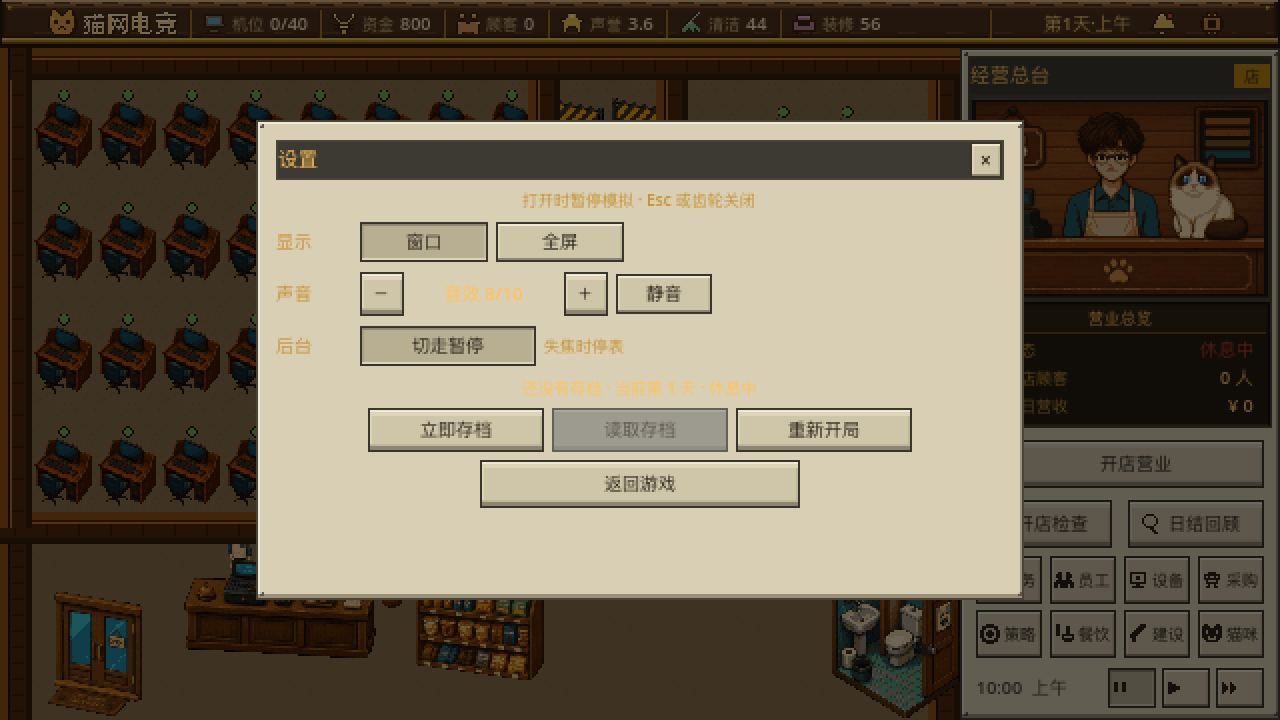
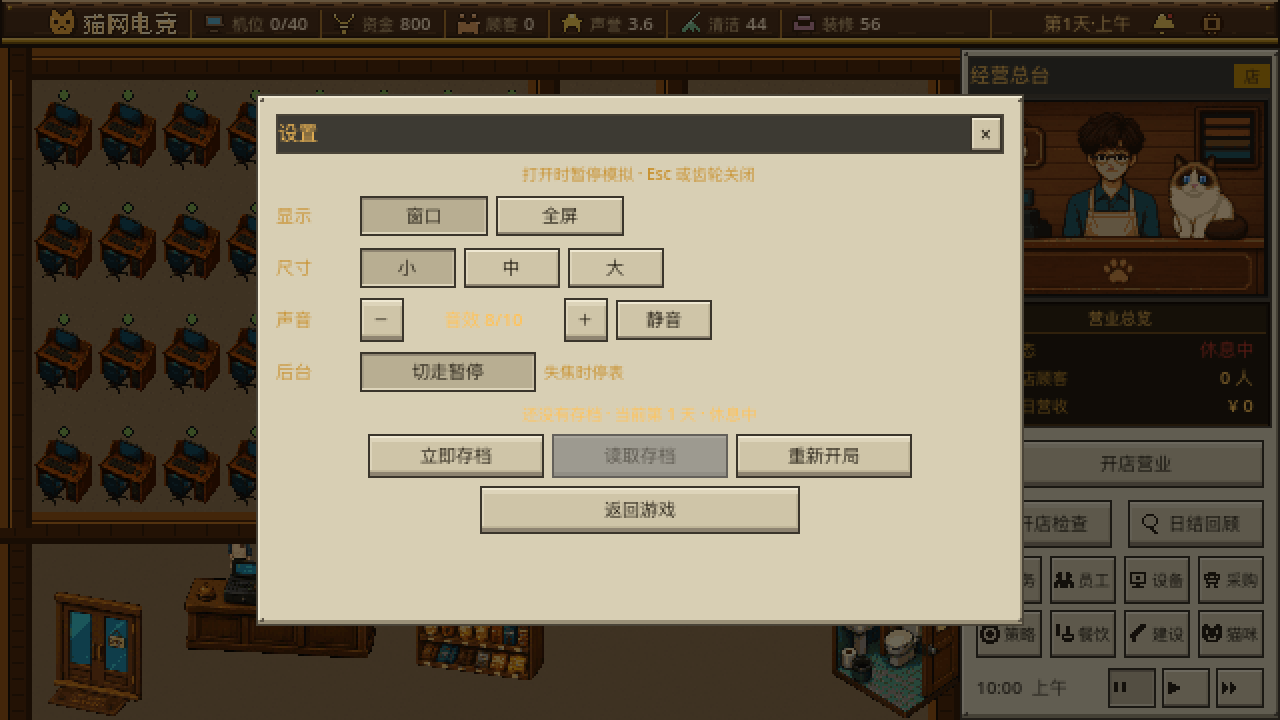
设置增加窗口小/中/大三档，只改 2×/3×/4× 整数倍，逻辑画布和立绘不动。
4K 缩放下默认 1280×720 偏小；全屏仍吃屏幕倍数，档位超出桌面会下压。

Changed region(s): [[0.1875, 0.1222, 0.8125, 0.7639], [0.1875, 0.825, 0.8125, 0.8861]]

diff --git a/docs/ui/操作区功能规划.md b/docs/ui/操作区功能规划.md
@@ -95,7 +95,7 @@
 
 - **顶栏消息铃**：通知与待办列表，只负责提醒和跳转。
 - **随机事件**：由消息铃弹出决策，结果归入财务或经营档案，不占常驻模块。
-- **顶栏齿轮**：唯一设置入口。打开居中设置层（不挡顶栏），营业时间自动暂停；再点齿轮、Esc、遮罩或「返回游戏」关闭并恢复原速度。可切换窗口/全屏、音效音量与静音、切走暂停；立即存档、读取存档、重新开局（后两项需确认）。偏好写入 `user://settings.json`。
+- **顶栏齿轮**：唯一设置入口。打开居中设置层（不挡顶栏），营业时间自动暂停；再点齿轮、Esc、遮罩或「返回游戏」关闭并恢复原速度。可切换窗口/全屏、窗口尺寸小/中/大（2×/3×/4×，超出桌面则下压）、音效音量与静音、切走暂停；立即存档、读取存档、重新开局（后两项需确认）。偏好写入 `user://settings.json`。
 - **音效**：Autoload `Sfx` 按 `godot/data/sfx_catalog.json` 播短音；设置滑条打 SFX 总线。UI 是提示音，开店/上机/结账等是店内纯音效。音乐未做。
 
 ## 四、时间控制
@@ -119,7 +119,7 @@
 
 ### 5.1 单日经营闭环进度
 
-- **已接入**：时钟与走带键、客流生成/排队/半自动分配、机位会话、心情三态、包夜一口价、下机脏污故障、日结电费、柜台三态、财务「今日账单 / 今日电费 / 日结」、装修与维修入账、关店存档、顶栏设置（暂停、音效、全屏、存档/开局）、基础音效。
+- **已接入**：时钟与走带键、客流生成/排队/半自动分配、机位会话、心情三态、包夜一口价、下机脏污故障、日结电费、柜台三态、财务「今日账单 / 今日电费 / 日结」、装修与维修入账、关店存档、顶栏设置（暂停、音效、全屏、窗口小/中/大、存档/开局）、基础音效。
 - **仍占位**：员工、采购、策略（定价/会员/广告）、餐饮、猫咪；财务的收支趋势和成本结构。
 - **验收图**：`docs/ui/preview/sim_queue@2x.png`、`sim_session@2x.png`、`sim_checkout@2x.png`、`sim_opening_check@2x.png`。
 

diff --git a/docs/游戏策划文档.md b/docs/游戏策划文档.md
@@ -159,7 +159,7 @@
 | 元素 | 内容 | 说明 |
 |------|------|------|
 | 🔔 消息铃 | 事件红点徽标 | 有事件时亮红点 + 抖动动画 |
-| ⚙ 设置 | 暂停并打开居中设置：显示/音量/切走暂停、存档与重新开局 | |
+| ⚙ 设置 | 暂停并打开居中设置：窗口/全屏、尺寸小中大、音量、切走暂停、存档与重新开局 | |
 
 ### 7.5.2 图标方案（每项配小 icon）
 
@@ -231,6 +231,7 @@
 - 财务：收入和支出写入流水，今日营收与今日电费读真实账；装修购买、维修、电费走同一本账。
 - 日结：停止接客后强制结算进行中会话，顾客清空后关店，汇总营收/电费/人数/脏污故障，天数 +1 并自动存档。
 - 音效：Autoload `Sfx` 按 `godot/data/sfx_catalog.json` 播短音，设置「音效」滑条打 SFX 总线。UI 提示音与开店/上机/结账等店内纯音效分开；**音乐未做**。
+- 窗口尺寸：设置「小 / 中 / 大」对应 2×/3×/4×（1280×720 / 1920×1080 / 2560×1440），只改窗口整数倍，逻辑画布仍是 640×360。全屏吃满屏幕能整除的最大倍数；档位超出桌面则下压。
 
 **本轮未做**
 

diff --git a/docs/ui/界面布局设计.md b/docs/ui/界面布局设计.md
@@ -12,10 +12,14 @@
 | 项 | 值 |
 |----|-----|
 | 逻辑分辨率 | **640 × 360** |
-| 默认窗口 | 1280 × 720（×2） |
-| 全屏 1080p | 1920 × 1080（×3） |
+| 窗口小（默认） | 1280 × 720（×2） |
+| 窗口中 | 1920 × 1080（×3） |
+| 窗口大 | 2560 × 1440（×4） |
+| 全屏 | 吃满屏幕能整除的最大倍数（1080p ×3，1440p ×4，4K ×6） |
 | 缩放策略 | Godot `stretch/mode = viewport`、`aspect = keep`、`scale_mode = integer` |
 | 基准网格 | **32 × 32** 逻辑像素（一个地板 tile） |
+
+设置「尺寸」只改窗口整数倍，不改逻辑画布和立绘。档位超出可用桌面时下压到能放下的最大倍数。
 
 **所有下文尺寸均为逻辑像素**，屏幕实际像素 = 逻辑 × 缩放倍数。
 
